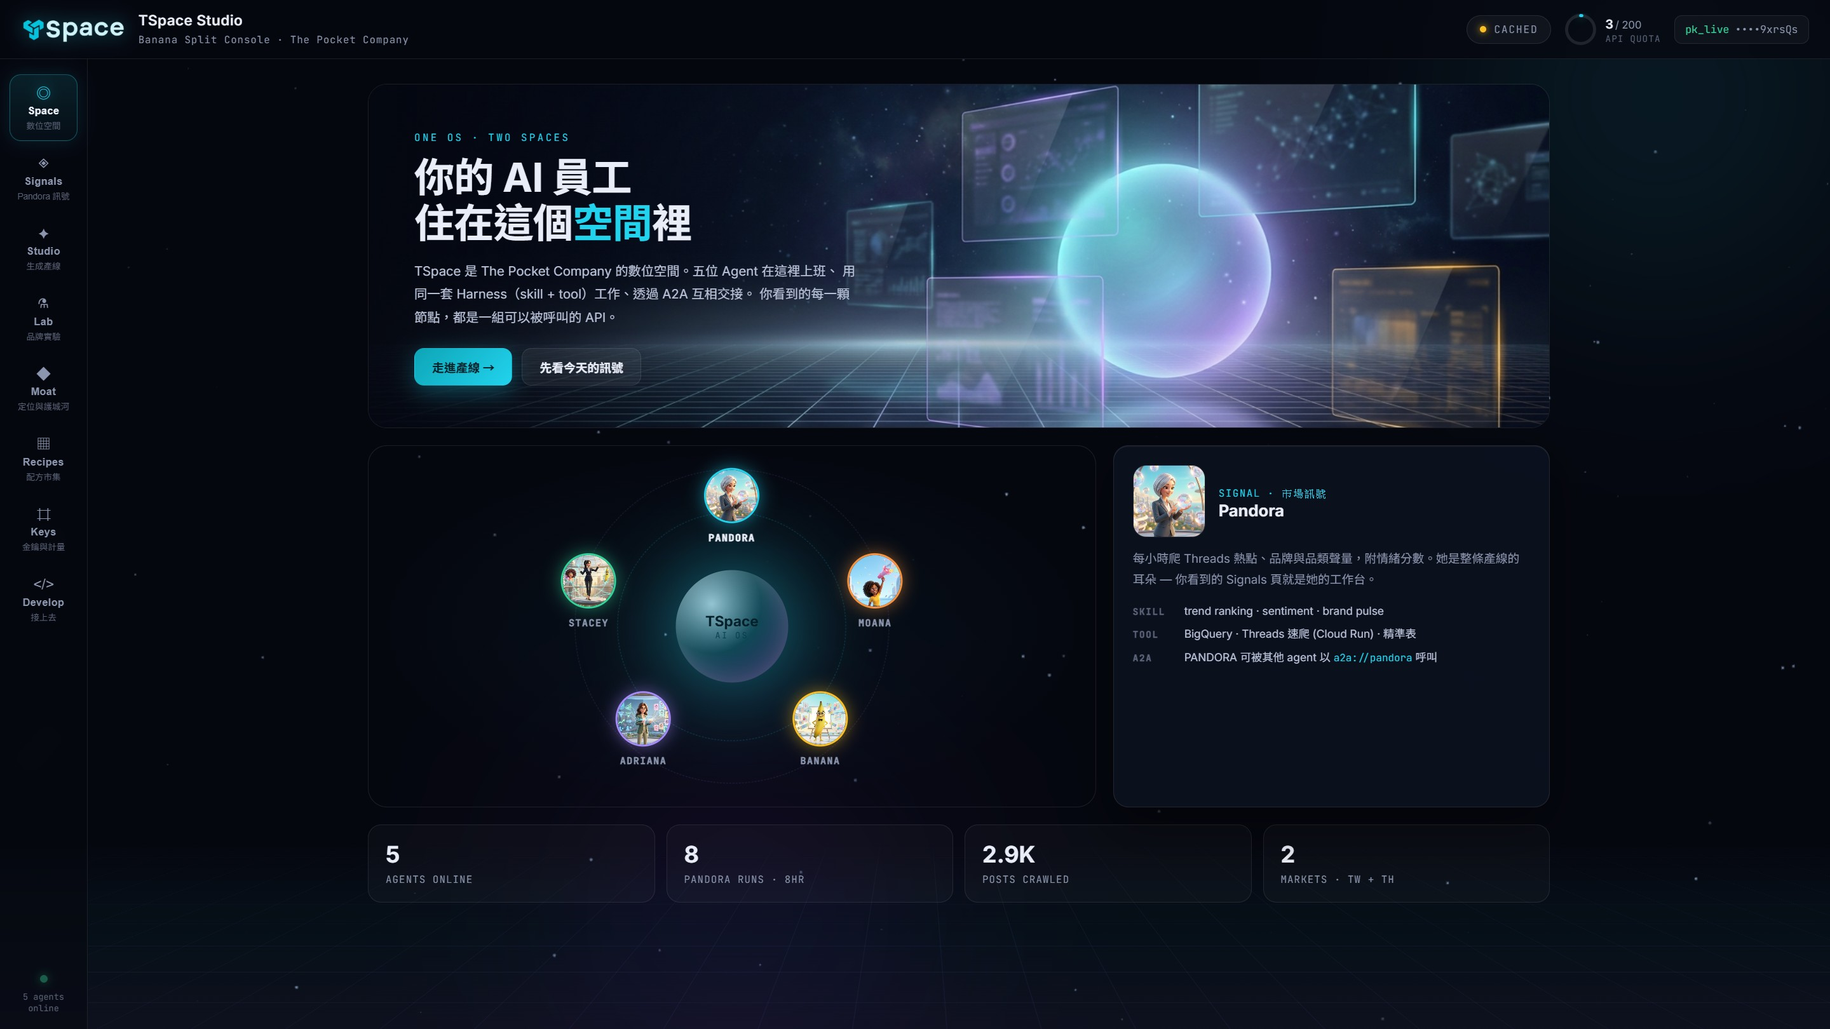
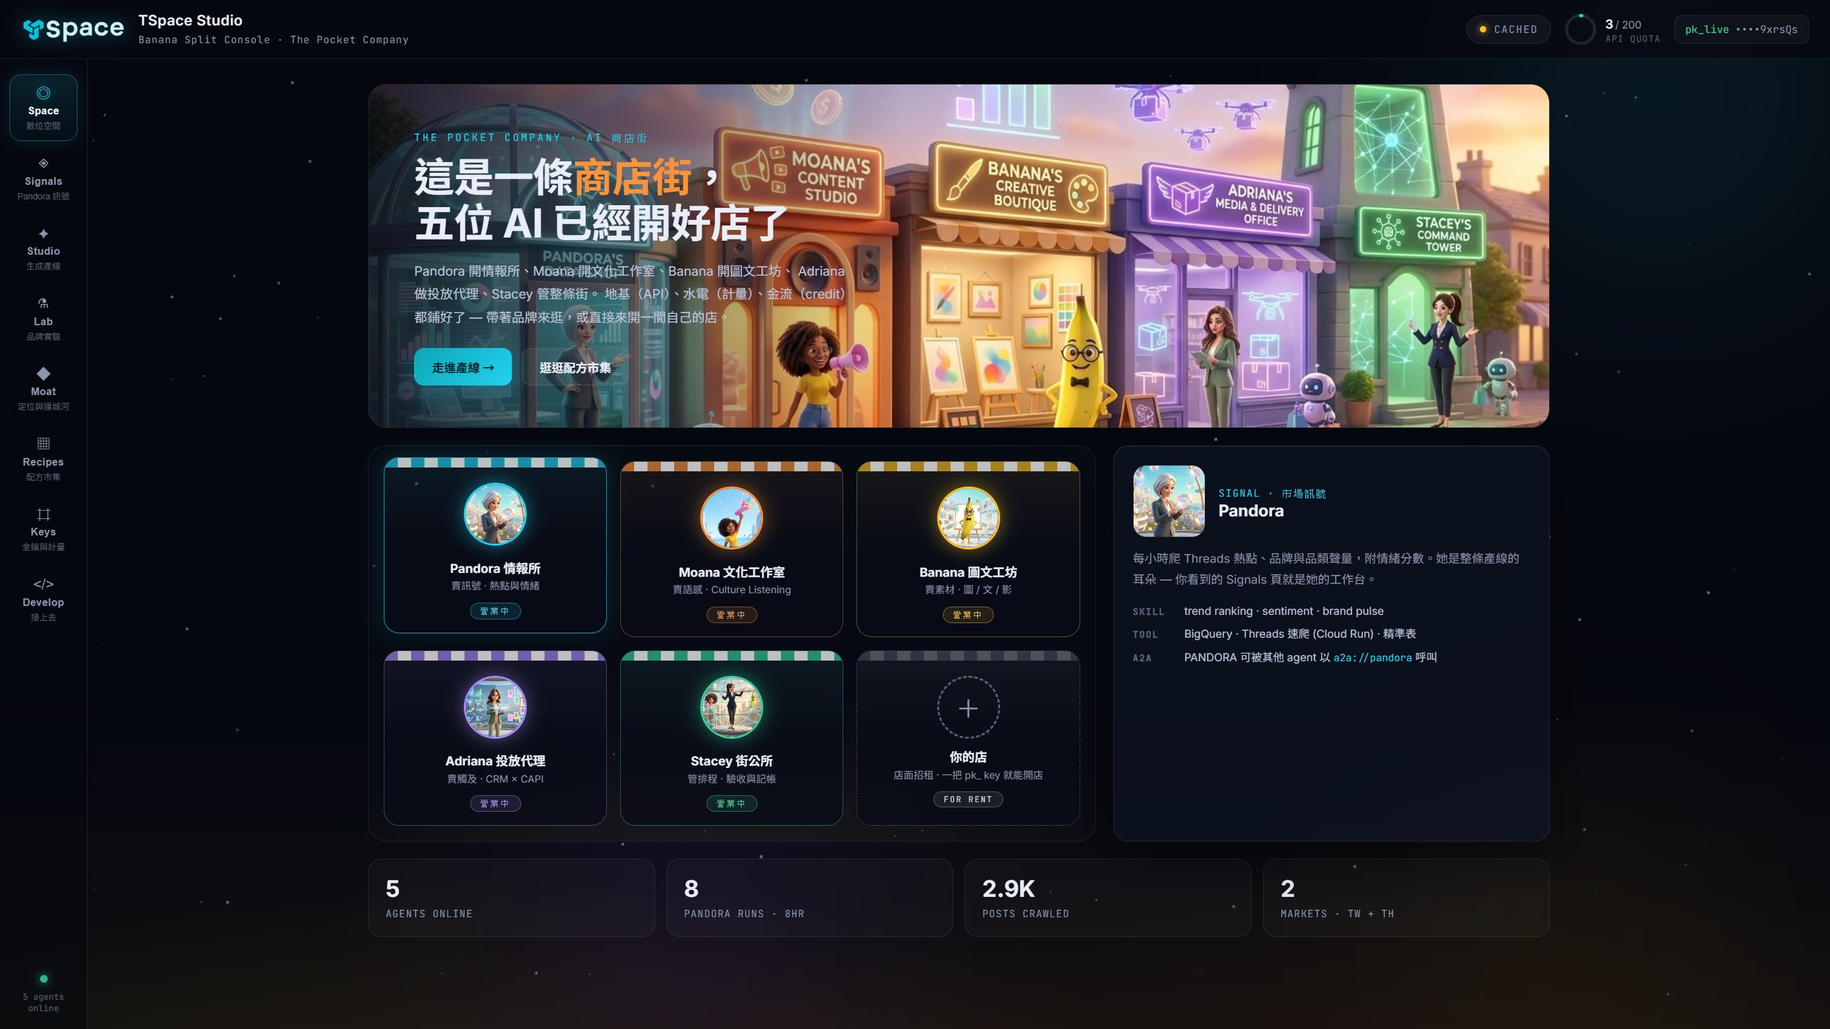
TSpace Studio: replace grid metaverse with TPC IP shopping street (agent shops + for-rent slot), new street hero across demo and deck

diff --git a/tspace-studio/app.css b/tspace-studio/app.css
@@ -33,18 +33,18 @@ code { font-family: var(--mono); font-size: .92em; color: var(--cyan); }
 /* ═══ ambient void ═══════════════════════════════════════════ */
 .void { position: fixed; inset: 0; z-index: 0; pointer-events: none; }
 #starfield { position: absolute; inset: 0; width: 100%; height: 100%; opacity: .8; }
-.grid-floor {
-  position: absolute; left: -20%; right: -20%; bottom: -12%; height: 46%;
+.street-glow {
+  position: absolute; left: -10%; right: -10%; bottom: -14%; height: 52%;
   background:
-    linear-gradient(transparent, rgba(34, 211, 238, .045) 60%, rgba(167, 139, 250, .07)),
-    repeating-linear-gradient(90deg, rgba(120, 160, 255, .07) 0 1px, transparent 1px 72px),
-    repeating-linear-gradient(0deg, rgba(120, 160, 255, .07) 0 1px, transparent 1px 46px);
-  transform: perspective(620px) rotateX(63deg);
-  mask-image: linear-gradient(transparent, #000 35%);
+    radial-gradient(ellipse 50% 80% at 30% 100%, rgba(251, 191, 36, .10), transparent 70%),
+    radial-gradient(ellipse 55% 85% at 70% 100%, rgba(249, 115, 22, .08), transparent 70%),
+    linear-gradient(transparent, rgba(251, 191, 36, .05));
+  mask-image: linear-gradient(transparent, #000 40%);
 }
 .aurora { position: absolute; border-radius: 50%; filter: blur(110px); opacity: .16; }
 .a1 { width: 640px; height: 640px; top: -220px; right: -140px; background: radial-gradient(circle, #22d3ee, transparent 65%); }
 .a2 { width: 560px; height: 560px; bottom: -180px; left: 22%; background: radial-gradient(circle, #7c3aed, transparent 65%); animation: drift 26s ease-in-out infinite alternate; }
+.a3 { width: 520px; height: 420px; bottom: -160px; right: 8%; background: radial-gradient(circle, #f59e0b, transparent 65%); opacity: .1; animation: drift 32s ease-in-out infinite alternate-reverse; }
 @keyframes drift { to { transform: translateX(160px) translateY(-40px); } }
 
 /* ═══ topbar ═════════════════════════════════════════════════ */
@@ -154,29 +154,56 @@ h2 { font-size: 28px; line-height: 1.25; font-weight: 700; margin: 8px 0 10px; }
 .space-copy p { color: #b9c2d8; font-size: 13.5px; line-height: 1.8; }
 .space-cta { display: flex; gap: 10px; margin-top: 20px; }
 
-.orbit-wrap { display: grid; grid-template-columns: 1.25fr .75fr; gap: 18px; margin-top: 18px; }
-.orbit { position: relative; height: 380px; border: 1px solid var(--line); border-radius: 20px; background: radial-gradient(ellipse at center, rgba(34, 211, 238, .05), transparent 70%); overflow: hidden; }
-.core { position: absolute; left: 50%; top: 50%; transform: translate(-50%, -50%); }
-.core-ring { position: absolute; left: 50%; top: 50%; width: 240px; height: 240px; margin: -120px 0 0 -120px; border: 1px dashed rgba(34, 211, 238, .25); border-radius: 50%; animation: spin 40s linear infinite; }
-.core-ring.r2 { width: 330px; height: 330px; margin: -165px 0 0 -165px; border-color: rgba(167, 139, 250, .18); animation-duration: 70s; animation-direction: reverse; }
-@keyframes spin { to { transform: rotate(360deg); } }
-.core-orb {
-  position: relative; width: 118px; height: 118px; border-radius: 50%;
-  display: flex; flex-direction: column; align-items: center; justify-content: center;
-  background: radial-gradient(circle at 32% 30%, rgba(180, 240, 255, .8), rgba(34, 211, 238, .28) 45%, rgba(124, 58, 237, .3));
-  box-shadow: 0 0 60px rgba(34, 211, 238, .4), inset 0 0 30px rgba(255, 255, 255, .18);
-  animation: breathe 5s ease-in-out infinite;
+.street-wrap { display: grid; grid-template-columns: 1.25fr .75fr; gap: 18px; margin-top: 18px; }
+.street-row {
+  display: grid; grid-template-columns: repeat(3, 1fr); gap: 14px; align-content: start;
+  padding: 16px; border: 1px solid var(--line); border-radius: 20px;
+  background:
+    radial-gradient(ellipse 90% 60% at 50% 110%, rgba(251, 191, 36, .07), transparent 70%),
+    rgba(10, 14, 26, .35);
 }
-.core-orb b { font-size: 15px; color: #04202a; font-weight: 700; }
-.core-orb em { font-style: normal; font-size: 9px; font-family: var(--mono); color: #073d4d; letter-spacing: .18em; }
-@keyframes breathe { 50% { box-shadow: 0 0 90px rgba(34, 211, 238, .6), inset 0 0 30px rgba(255,255,255,.25); } }
-
-.agent-node { position: absolute; left: 50%; top: 50%; width: 74px; margin: -37px; cursor: pointer; text-align: center; transition: .2s; }
-.agent-node img { width: 58px; height: 58px; border-radius: 50%; object-fit: cover; border: 2px solid var(--tone, var(--cyan)); box-shadow: 0 0 18px color-mix(in srgb, var(--tone, var(--cyan)) 55%, transparent); background: #0a0f1e; }
-.agent-node b { display: block; font-size: 10px; font-family: var(--mono); letter-spacing: .1em; margin-top: 5px; color: var(--mut); }
-.agent-node:hover, .agent-node.sel { transform: scale(1.12); }
-.agent-node.sel b { color: var(--ink); }
-
+.shop-card {
+  position: relative; overflow: hidden; cursor: pointer; text-align: center;
+  padding: 26px 12px 14px; border-radius: 16px; transition: .2s;
+  border: 1px solid color-mix(in srgb, var(--tone, var(--cyan)) 28%, var(--line));
+  background:
+    linear-gradient(180deg, color-mix(in srgb, var(--tone, var(--cyan)) 9%, transparent), rgba(8, 11, 22, .7) 55%);
+}
+.shop-card:hover, .shop-card.sel {
+  transform: translateY(-4px);
+  box-shadow: 0 14px 34px rgba(0, 0, 0, .45), 0 0 24px color-mix(in srgb, var(--tone, var(--cyan)) 22%, transparent);
+  border-color: color-mix(in srgb, var(--tone, var(--cyan)) 65%, var(--line));
+}
+.shop-awning {
+  position: absolute; left: 0; right: 0; top: 0; height: 10px;
+  background: repeating-linear-gradient(90deg,
+    color-mix(in srgb, var(--tone, var(--cyan)) 75%, #0a0f1e) 0 14px,
+    rgba(255, 255, 255, .85) 14px 28px);
+  border-radius: 16px 16px 0 0; opacity: .85;
+}
+.shop-card img {
+  width: 66px; height: 66px; border-radius: 50%; object-fit: cover;
+  border: 2px solid var(--tone, var(--cyan));
+  box-shadow: 0 0 20px color-mix(in srgb, var(--tone, var(--cyan)) 50%, transparent);
+  background: #0a0f1e;
+}
+.shop-card b { display: block; font-size: 13px; margin-top: 9px; color: var(--ink); }
+.shop-card em { display: block; font-style: normal; font-size: 10.5px; color: var(--mut); margin-top: 3px; line-height: 1.45; }
+.shop-open {
+  display: inline-block; margin-top: 9px; padding: 2px 10px; border-radius: 999px;
+  font-family: var(--mono); font-size: 8.5px; letter-spacing: .16em;
+  color: color-mix(in srgb, var(--tone, var(--cyan)) 85%, #fff);
+  border: 1px solid color-mix(in srgb, var(--tone, var(--cyan)) 45%, transparent);
+  background: color-mix(in srgb, var(--tone, var(--cyan)) 12%, transparent);
+}
+.shop-card.rent { --tone: #94a3b8; border-style: dashed; }
+.shop-card.rent .shop-awning { opacity: .3; }
+.rent-mark {
+  width: 66px; height: 66px; margin: 0 auto; border-radius: 50%;
+  border: 2px dashed rgba(148, 163, 184, .55); color: rgba(148, 163, 184, .9);
+  display: flex; align-items: center; justify-content: center; font-size: 26px;
+}
+.shop-open.vacant { color: #cbd5e1; }
 .agent-detail { padding: 20px; display: flex; flex-direction: column; }
 .agent-detail .ad-head { display: flex; gap: 14px; align-items: center; margin-bottom: 12px; }
 .agent-detail .ad-head img { width: 76px; height: 76px; border-radius: 14px; object-fit: cover; border: 1px solid var(--line); }
@@ -396,6 +423,6 @@ h2 { font-size: 28px; line-height: 1.25; font-weight: 700; margin: 8px 0 10px; }
   .signals-grid, .studio-grid, .keys-grid, .moat-grid, .lab-grid { grid-template-columns: 1fr; }
   .recipe-grid, .moat-cards { grid-template-columns: 1fr 1fr; }
   .learn-grid, .anatomy { grid-template-columns: 1fr 1fr; }
-  .orbit-wrap { grid-template-columns: 1fr; }
+  .street-wrap { grid-template-columns: 1fr; }
   h1 { font-size: 32px; }
 }

diff --git a/tspace-studio/app.js b/tspace-studio/app.js
@@ -103,38 +103,53 @@ $("#modeSwitch").onclick = async function () {
 /* ═══ AGENTS ═════════════════════════════════════════════════ */
 const AGENTS = [
   { code: "PANDORA", name: "Pandora", tone: "var(--cyan)", img: "assets/agent_pandora.jpg",
+    shop: "Pandora 情報所", sells: "賣訊號 · 熱點與情緒",
     role: "SIGNAL · 市場訊號", desc: "每小時爬 Threads 熱點、品牌與品類聲量，附情緒分數。她是整條產線的耳朵 — 你看到的 Signals 頁就是她的工作台。",
     skills: "trend ranking · sentiment · brand pulse", tools: "BigQuery · Threads 速爬 (Cloud Run) · 精準表" },
   { code: "MOANA", name: "Moana", tone: "var(--orange)", img: "assets/agent_moana.jpg",
+    shop: "Moana 文化工作室", sells: "賣語感 · Culture Listening",
     role: "CULTURE · 語感萃取", desc: "把 Pandora 抓回來的原話聽懂：口語、梗、痛點。Culture Listening 是她的方法論 — 產出的不是翻譯，是語感。",
     skills: "culture brief · verbatim mining · hook writing", tools: "Pandora corpus · 在地詞庫 · LLM" },
   { code: "BANANA", name: "Banana", tone: "var(--gold)", img: "assets/agent_banana.jpg",
+    shop: "Banana 圖文工坊", sells: "賣素材 · 圖 / 文 / 影",
     role: "VISUAL · 圖文生成", desc: "拿著 Moana 的 brief 產視覺：商品照、情境圖、短影音。Banana Split 就是他的產線介面 — 也是我們要開放給開發者的那一層。",
     skills: "product shot · scene gen · motion", tools: "gen model fleet · brand kit · asset store" },
   { code: "ADRIANA", name: "Adriana", tone: "var(--violet)", img: "assets/agent_adriana.jpg",
+    shop: "Adriana 投放代理", sells: "賣觸及 · CRM × CAPI",
     role: "DELIVERY · 投放回流", desc: "素材出去、數據回來：受眾標籤、CAPI 回傳、成效歸因。她讓「哪張素材有效」變成下一輪 Pandora 的輸入。",
     skills: "audience tagging · CAPI sync · attribution", tools: "TCRM · TCDP · Meta CAPI" },
   { code: "STACEY", name: "Stacey", tone: "var(--green)", img: "assets/agent_stacey.jpg",
+    shop: "Stacey 街公所", sells: "管排程 · 驗收與記帳",
     role: "ORCHESTRATOR · 總指揮", desc: "整條 run 的排程、驗收與記帳由她負責。每一步誰做了什麼、花了幾個 credit，全部留痕。",
     skills: "run orchestration · QA · metering", tools: "A2A bus · policy engine · ledger" },
 ];
 
 (() => {
-  const ring = $("#agentRing");
-  const R = 158;
+  const row = $("#streetRow");
   AGENTS.forEach((a, i) => {
-    const ang = -90 + i * (360 / AGENTS.length);
-    const rad = ang * Math.PI / 180;
     const el = document.createElement("div");
-    el.className = "agent-node";
+    el.className = "shop-card";
     el.style.setProperty("--tone", a.tone);
-    el.style.transform = `translate(${Math.cos(rad) * R}px, ${Math.sin(rad) * R * .82}px)`;
-    el.innerHTML = `<img src="${a.img}" alt="${a.name}"><b>${a.code}</b>`;
+    el.innerHTML = `
+      <span class="shop-awning"></span>
+      <img src="${a.img}" alt="${a.name}">
+      <b>${a.shop}</b><em>${a.sells}</em>
+      <span class="shop-open">營業中</span>`;
     el.onclick = () => selectAgent(i);
-    ring.appendChild(el);
+    row.appendChild(el);
   });
+  const rent = document.createElement("div");
+  rent.className = "shop-card rent";
+  rent.innerHTML = `
+    <span class="shop-awning"></span>
+    <div class="rent-mark">＋</div>
+    <b>你的店</b><em>店面招租 · 一把 pk_ key 就能開店</em>
+    <span class="shop-open vacant">FOR RENT</span>`;
+  rent.onclick = () => goto("develop");
+  row.appendChild(rent);
+
   window.selectAgent = i => {
-    $$(".agent-node").forEach((n, j) => n.classList.toggle("sel", i === j));
+    $$(".shop-card").forEach((n, j) => n.classList.toggle("sel", i === j));
     const a = AGENTS[i];
     $("#agentDetail").innerHTML = `
       <div class="ad-head">

diff --git a/tspace-studio/index.html b/tspace-studio/index.html
@@ -12,12 +12,13 @@
 </head>
 <body>
 
-<!-- ── ambient digital space ─────────────────────────────────── -->
+<!-- ── ambient: warm AI-town dusk ────────────────────────────── -->
 <div class="void">
   <canvas id="starfield"></canvas>
-  <div class="grid-floor"></div>
+  <div class="street-glow"></div>
   <div class="aurora a1"></div>
   <div class="aurora a2"></div>
+  <div class="aurora a3"></div>
 </div>
 
 <!-- ── top bar ───────────────────────────────────────────────── -->
@@ -88,32 +89,26 @@
   <!-- ── views ───────────────────────────────────────────────── -->
   <main class="stage">
 
-    <!-- ═══ SPACE ═══════════════════════════════════════════ -->
+    <!-- ═══ SPACE · AI 商店街 ═══════════════════════════════ -->
     <section class="view active" id="view-space">
       <div class="space-hero">
-        <img src="assets/space_hero.jpg" alt="" class="space-bg">
+        <img src="assets/street_hero.jpg" alt="" class="space-bg">
         <div class="space-copy">
-          <span class="eyebrow">ONE OS · TWO SPACES</span>
-          <h1>你的 AI 員工<br>住在這個<span class="c">空間</span>裡</h1>
-          <p>TSpace 是 The Pocket Company 的數位空間。五位 Agent 在這裡上班、
-             用同一套 Harness（skill + tool）工作、透過 A2A 互相交接。
-             你看到的每一顆節點，都是一組可以被呼叫的 API。</p>
+          <span class="eyebrow">THE POCKET COMPANY · AI 商店街</span>
+          <h1>這是一條<span class="o">商店街</span>，<br>五位 AI 已經開好店了</h1>
+          <p>Pandora 開情報所、Moana 開文化工作室、Banana 開圖文工坊、
+             Adriana 做投放代理、Stacey 管整條街。
+             地基（API）、水電（計量）、金流（credit）都鋪好了 —
+             帶著品牌來逛，或直接來開一間自己的店。</p>
           <div class="space-cta">
             <button class="btn primary" data-goto="studio">走進產線 →</button>
-            <button class="btn ghost" data-goto="signals">先看今天的訊號</button>
+            <button class="btn ghost" data-goto="recipes">逛逛配方市集</button>
           </div>
         </div>
       </div>
 
-      <div class="orbit-wrap">
-        <div class="orbit">
-          <div class="core">
-            <div class="core-ring"></div>
-            <div class="core-ring r2"></div>
-            <div class="core-orb"><b>TSpace</b><em>AI OS</em></div>
-          </div>
-          <div class="agents" id="agentRing"></div>
-        </div>
+      <div class="street-wrap">
+        <div class="street-row" id="streetRow"></div>
         <aside class="agent-detail glass" id="agentDetail"></aside>
       </div>
 

diff --git a/banana-split-plan/index.html b/banana-split-plan/index.html
@@ -2529,7 +2529,7 @@ h3 { font-size: 3cqh; font-weight: 700; color: var(--text); }
 <!-- ══════════ SLIDE 01: cover (cover) ══════════ -->
 
 <div class="slide cover active">
-    <div class="bg-image" style="background-image: url('img/space_hero.jpg');"></div>
+    <div class="bg-image" style="background-image: url('img/street_hero.jpg');"></div>
 
     <div class="slide-content">
         
@@ -3334,8 +3334,8 @@ h3 { font-size: 3cqh; font-weight: 700; color: var(--text); }
         
         <div class="demo-info">
             <div class="tag tag-violet">CHAPTER 07 · DEMO</div>
-            <h2 class="demo-title">TSpace Studio：你的 AI 員工<span class="v">住的地方</span></h2>
-            <p class="demo-sub">一個真的能點的 console —— 數位空間裡五位 Agent 環繞 AI OS，訊號、產線、實驗、金鑰全部在同一個介面。它同時是 UI SDK 的第一個 reference implementation。</p>
+            <h2 class="demo-title">TSpace Studio：五位 AI 開好店的<span class="v">商店街</span></h2>
+            <p class="demo-sub">一個真的能點的 console —— 不是冷冰冰的後台，是一條 The Pocket Company IP 商店街：五位 Agent 各開一間店，還留了一格「店面招租」給開發者。它同時是 UI SDK 的第一個 reference implementation。</p>
         </div>
 
         
@@ -3513,7 +3513,7 @@ h3 { font-size: 3cqh; font-weight: 700; color: var(--text); }
 <!-- ══════════ SLIDE 15: closing (closing) ══════════ -->
 
 <div class="slide closing">
-    <div class="bg-image" style="background-image: url('img/space_hero.jpg');"></div>
+    <div class="bg-image" style="background-image: url('img/street_hero.jpg');"></div>
 
     <div class="slide-content">
         <div class="closing-quote">

diff --git a/tspace-studio/gen_street.py b/tspace-studio/gen_street.py
@@ -1,0 +1,113 @@
+"""Generate the TPC agent shopping-street hero (replaces the grid-floor space hero).
+
+Uses all five official agent portraits as references for character consistency.
+"""
+import base64
+import mimetypes
+import os
+import sys
+import time
+from pathlib import Path
+
+import requests
+from dotenv import load_dotenv
+
+ROOT = Path(__file__).resolve().parent
+load_dotenv(ROOT.parent / "turncloud-presentation" / "tpc-launch" / ".env")
+API_KEY = os.environ.get("GEMINI_API_KEY") or os.environ.get("GOOGLE_API_KEY")
+if not API_KEY:
+    raise SystemExit("GEMINI_API_KEY missing")
+
+MODEL = "nano-banana-pro-preview"
+URL = f"https://generativelanguage.googleapis.com/v1beta/models/{MODEL}:generateContent?key={API_KEY}"
+
+IMG = ROOT.parent / "turncloud-presentation" / "img"
+OUT = ROOT / "assets"
+
+REFS = [
+    ("08_pandora.jpg", "Pandora — silver-haired woman in a grey suit (cyan accent)"),
+    ("09_moana.jpg", "Moana — woman with curly afro hair, orange tee, pink megaphone (orange accent)"),
+    ("10_banana.jpg", "Banana — yellow banana mascot with round glasses and bow tie (gold accent)"),
+    ("11_adriana.jpg", "Adriana — brunette woman, round glasses, sage blazer, glowing tablet (violet accent)"),
+    ("12_stacey.jpg", "Stacey — woman with dark-brown high ponytail, navy blazer, holographic stylus (green accent)"),
+]
+
+PROMPT = """
+A wide 16:9 keynote hero: a charming Pixar-3D SHOPPING STREET at dusk — the
+business district of an AI world where companies come to make money together.
+
+Five cozy storefronts line the street side by side, each run by one of the five
+reference characters standing proudly at their own shop door (match each
+character's face, hair, outfit and colour EXACTLY to the reference photos):
+
+1. Pandora's observatory-style data shop — cyan glow, holographic charts in the window
+2. Moana's content studio — orange glow, speaker/megaphone motif on the facade
+3. Banana's art & creative boutique — warm gold glow, easels and picture frames in the window
+4. Adriana's media & delivery office — violet glow, floating parcel-drones above
+5. Stacey's command tower at the end of the street — green glow, taller, orchestrating
+
+Atmosphere: warm golden-hour light mixed with soft neon shop glows, glowing shop
+windows, a few small cute robot customers walking with shopping bags, gentle
+floating holograms (coins, charts, sparkles) above the street suggesting
+prosperity and commerce. Optimistic, inviting, "let's build a business here".
+
+Camera: slightly elevated 3/4 view down the street so all five shops are visible.
+Style: premium Pixar-quality 3D render, soft global illumination, crisp details.
+
+STRICT RULES:
+- NO grid floor, NO wireframe, NO tron-style lines. The street is warm paved stone.
+- Signboards use ABSTRACT ICONS ONLY — absolutely NO text, NO letters, NO numbers,
+  NO logos, NO watermarks anywhere in the image.
+- Keep the upper-left area relatively calm (sky/bokeh) so UI copy can overlay.
+"""
+
+
+def part(path):
+    mime, _ = mimetypes.guess_type(str(path))
+    return {"inline_data": {"mime_type": mime or "image/jpeg",
+                            "data": base64.b64encode(path.read_bytes()).decode()}}
+
+
+def main():
+    parts = []
+    for fname, label in REFS:
+        p = IMG / fname
+        if p.exists():
+            parts.append({"text": f"Character reference — {label}:"})
+            parts.append(part(p))
+    parts.append({"text": PROMPT})
+
+    payload = {
+        "contents": [{"parts": parts}],
+        "generationConfig": {"responseModalities": ["IMAGE"],
+                             "imageConfig": {"aspectRatio": "16:9"}},
+    }
+    for attempt in range(1, 4):
+        print(f"generating street hero (attempt {attempt}) ...", flush=True)
+        t0 = time.time()
+        try:
+            r = requests.post(URL, json=payload, timeout=300)
+        except requests.RequestException as e:
+            print("  req err", e)
+            time.sleep(10 * attempt)
+            continue
+        if r.status_code != 200:
+            print(f"  http {r.status_code}: {r.text[:200]}")
+            time.sleep(12 * attempt)
+            continue
+        for c in r.json().get("candidates", []):
+            for p in c.get("content", {}).get("parts", []):
+                inline = p.get("inlineData") or p.get("inline_data")
+                if inline and inline.get("data"):
+                    data = base64.b64decode(inline["data"])
+                    out = OUT / "street_hero.jpg"
+                    out.write_bytes(data)
+                    print(f"  saved {out.name} ({len(data)//1024} KB, {time.time()-t0:.0f}s)")
+                    return 0
+        print("  no image in response")
+        time.sleep(8 * attempt)
+    return 1
+
+
+if __name__ == "__main__":
+    sys.exit(main())
